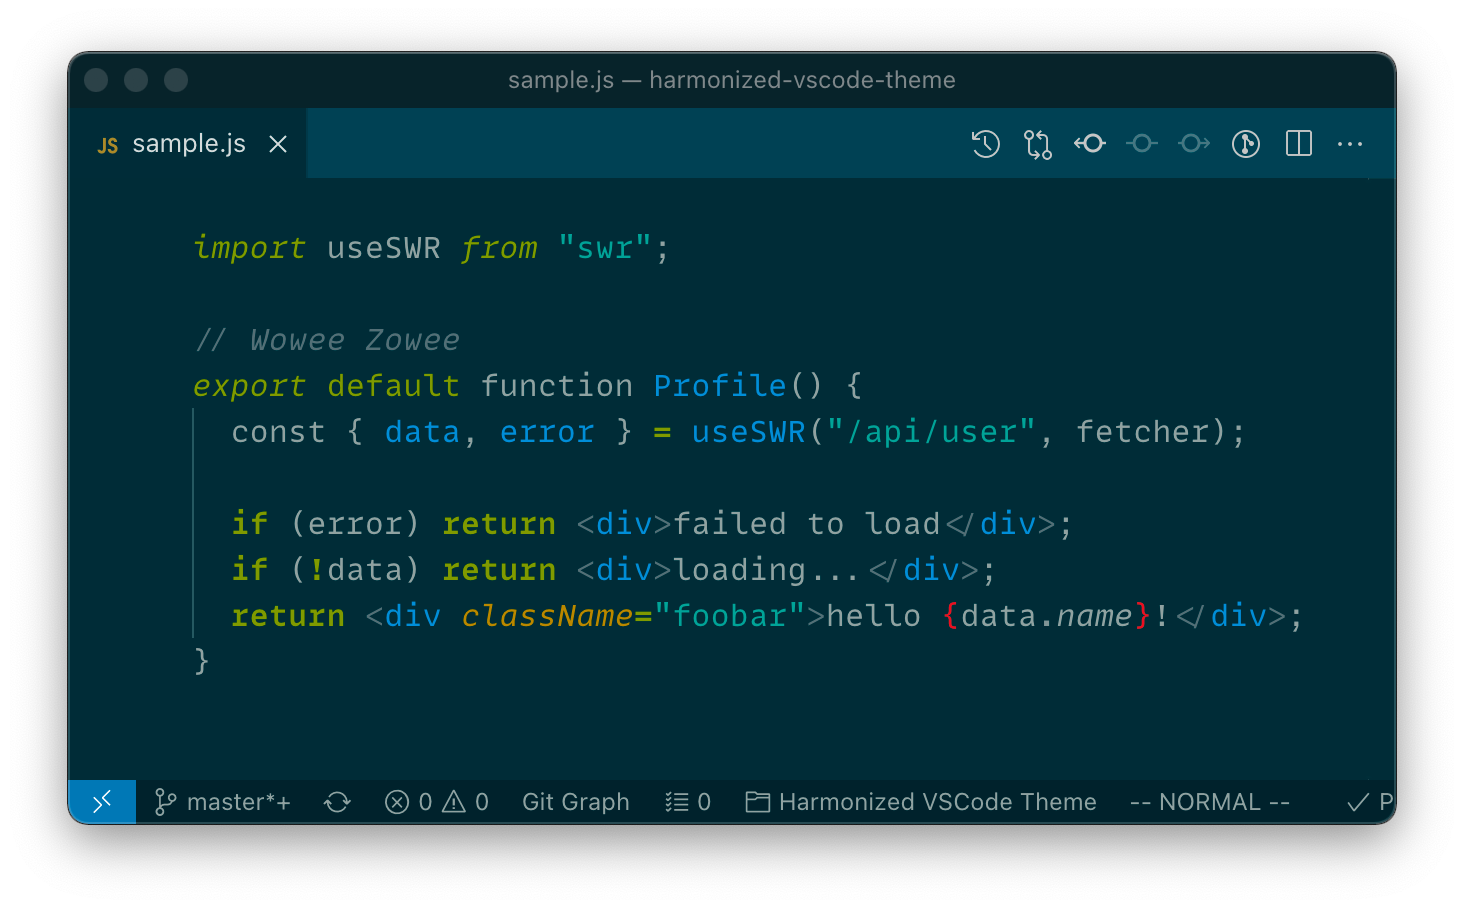
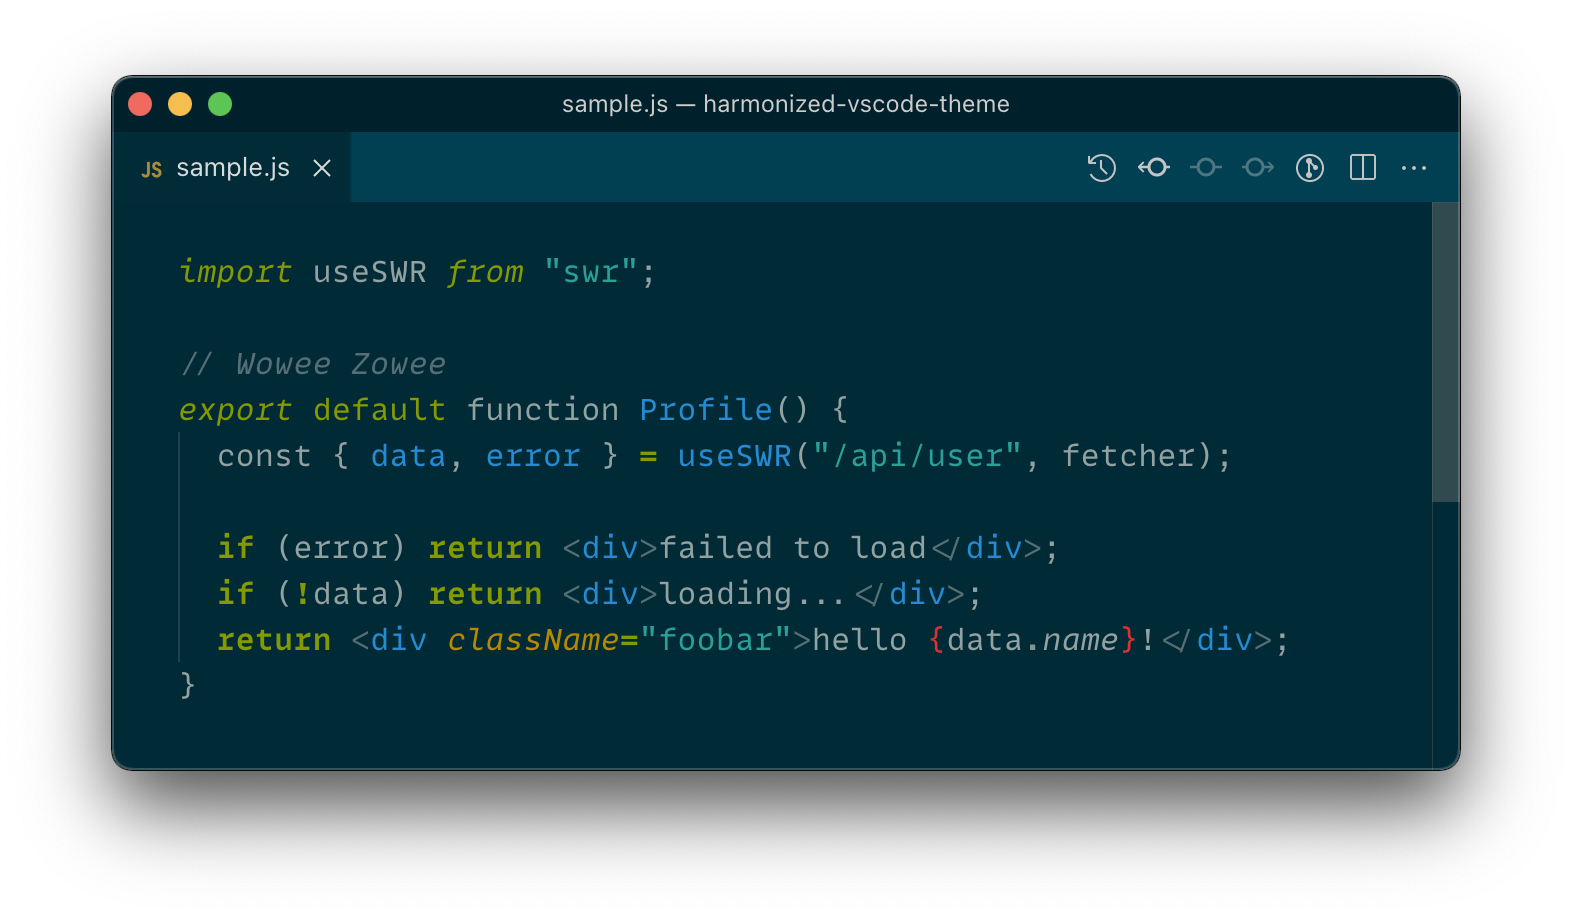
updated screenshots

Changed region(s): [[0.0307, 0.0308, 0.9836, 0.9559], [0.123, 0.5551, 0.8607, 0.7093]]

diff --git a/CHANGELOG.md b/CHANGELOG.md
@@ -1,11 +1,14 @@
 # Changelog
 
+## 0.5.5
+
+- Updated screenshots.
 ## 0.5.4
 
-- Fix 'Open in remote window' foreground
+- Fix 'Open in remote window' foreground.
 ## 0.5.3
 
-- Don't highlight 'Open in remote window' button in status bar with alternate color
+- Don't highlight 'Open in remote window' button in status bar with alternate color.
 ## 0.5.2
 
 - Updated Readme and screenshots.
